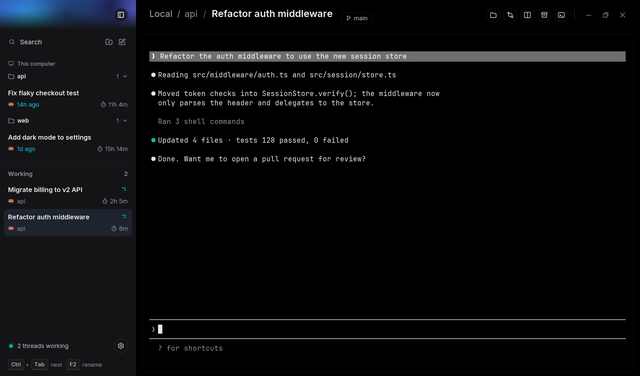
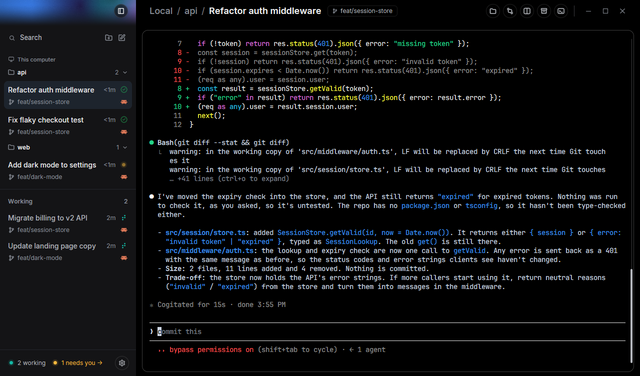
Zerdr: README and previews show the current thread cards
README describes the two-line cards (branch and agent logo below the
title) and the green done check. preview.png and Zerdr.png are fresh
captures from an isolated demo Herdr installed from this repo: one
done thread, one needing you, two working cards.

diff --git a/README.md b/README.md
@@ -1,6 +1,6 @@
 # Zerdr
 
-**A threads layout for [Herdr](https://herdr.dev).** Every tab is a thread. The sidebar shows the agents working right now as cards and groups the rest by machine and project, with one marker per state everywhere (teal spinner = working, amber dot = needs you, check = done). A gradient at the top tells you how everything is going at a glance: drifting while anything works, still when nothing does, amber when something needs you. The terminal sits alone in a quiet rounded card.
+**A threads layout for [Herdr](https://herdr.dev).** Every tab is a thread. The sidebar shows the agents working right now as cards and groups the rest by machine and project. Every thread, working or not, is the same two-line card: title, time worked and its state on top, git branch and the agent's logo below. There is one marker per state everywhere: teal spinner = working, amber dot = needs you, green check = done. A gradient at the top tells you how everything is going at a glance: drifting while anything works, still when nothing does, amber when something needs you. The terminal sits alone in a quiet rounded card.
 
 ![Zerdr](preview.png)
 
